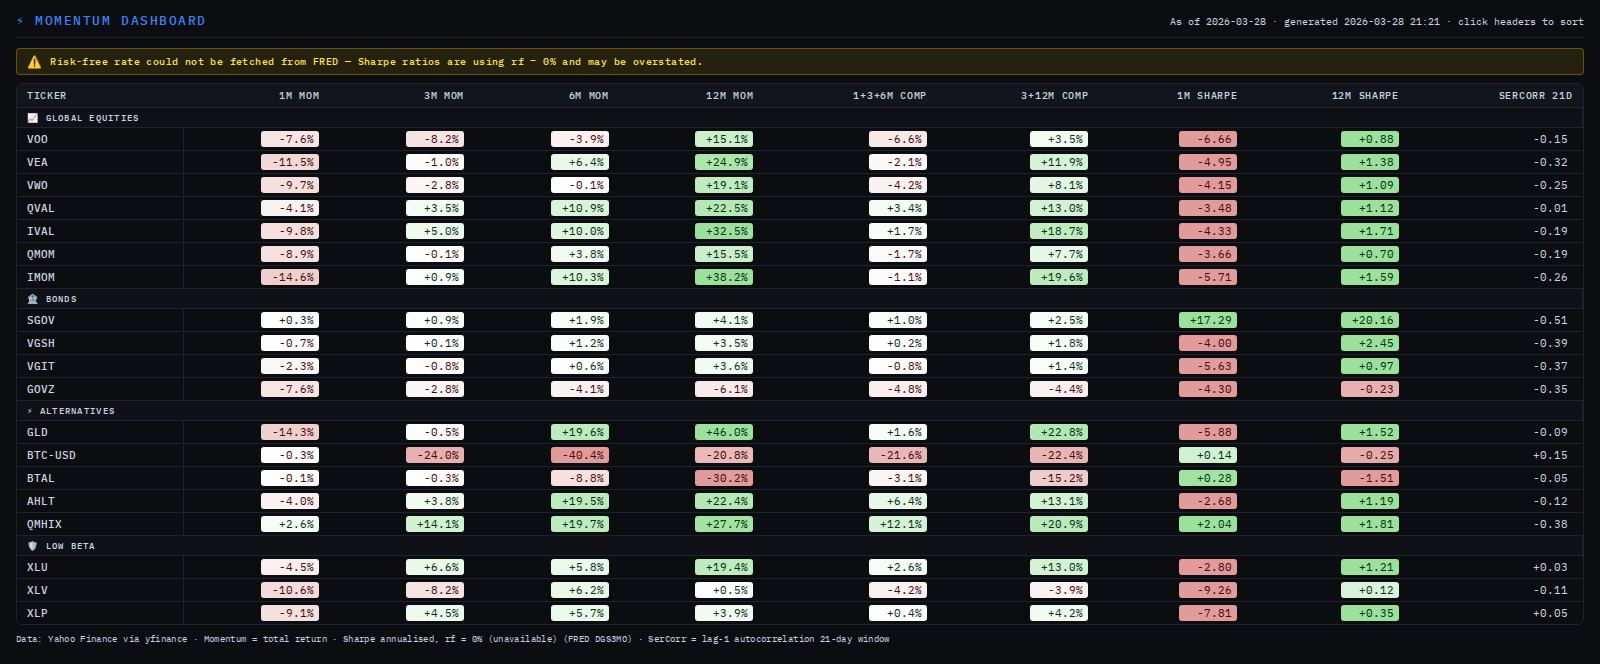
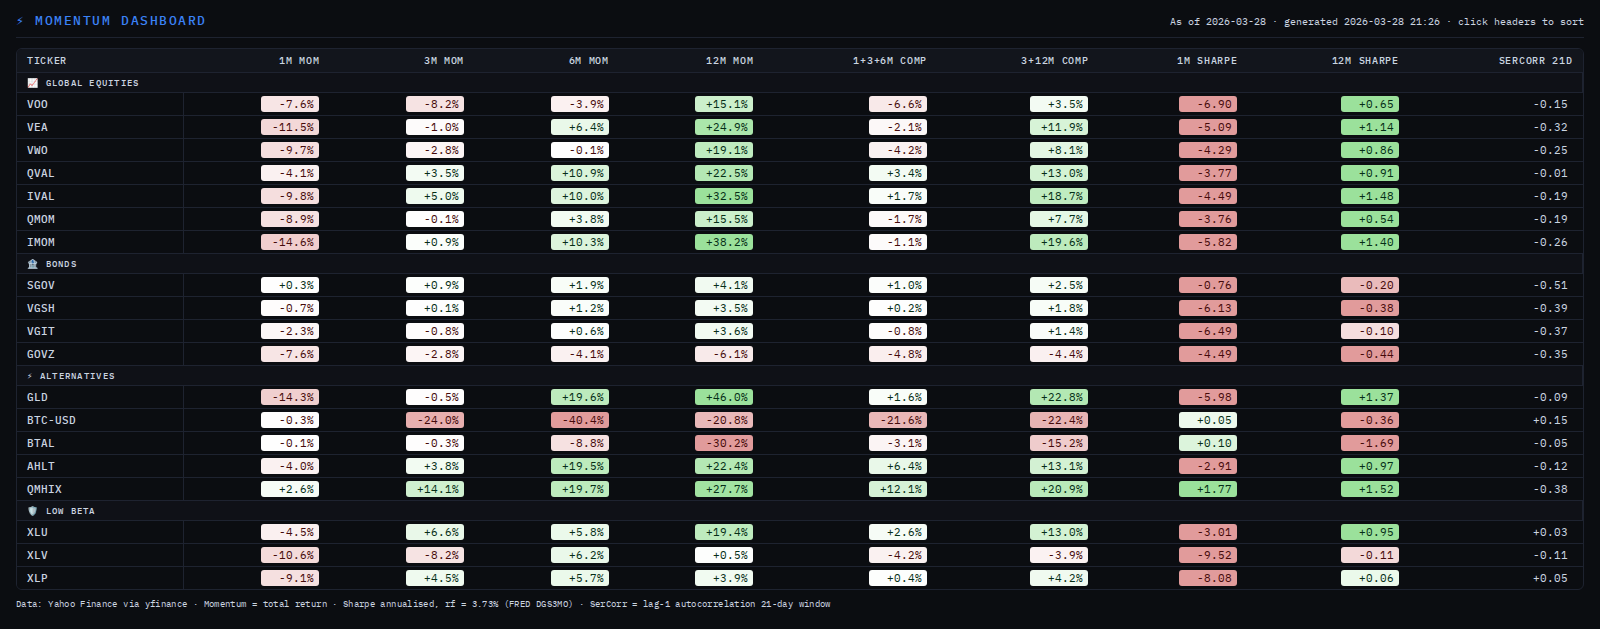
chore: dashboard update 2026-03-28

Changed region(s): [[0.0, 0.0302, 1.0, 0.9666]]

diff --git a/output/dashboard_2026-03-28.html b/output/dashboard_2026-03-28.html
@@ -180,12 +180,10 @@
 
 <div class="topbar">
   <h1>⚡ Momentum Dashboard</h1>
-  <span class="meta">As of 2026-03-28 · generated 2026-03-28 21:21 · click headers to sort</span>
+  <span class="meta">As of 2026-03-28 · generated 2026-03-28 21:26 · click headers to sort</span>
 </div>
 
-<div class="warnings">
-<div class="warn warn-rf"><span class="warn-icon">⚠</span>Risk-free rate could not be fetched from FRED — Sharpe ratios are using rf = 0% and may be overstated.</div>
-</div>
+
 <div class="tbl-wrap">
   <table id="main">
     <thead>
@@ -204,34 +202,34 @@
     </thead>
     <tbody>
       <tr class="cat-row"><td colspan="10">📈 Global Equities</td></tr>
-      <tr class="data-row"><td data-val="VOO">VOO</td><td data-val="-0.076192"><span class="cv cv-neg" style="background:rgb(247,229,229)">-7.6%</span></td><td data-val="-0.081721"><span class="cv cv-neg" style="background:rgb(246,227,227)">-8.2%</span></td><td data-val="-0.039134"><span class="cv cv-neg" style="background:rgb(251,241,241)">-3.9%</span></td><td data-val="0.151315"><span class="cv cv-pos" style="background:rgb(204,239,204)">+15.1%</span></td><td data-val="-0.065682"><span class="cv cv-neg" style="background:rgb(248,233,233)">-6.6%</span></td><td data-val="0.034797"><span class="cv cv-pos" style="background:rgb(243,251,243)">+3.5%</span></td><td data-val="-6.659306"><span class="cv cv-neg" style="background:rgb(225,155,155)">-6.66</span></td><td data-val="0.878861"><span class="cv cv-pos" style="background:rgb(155,225,155)">+0.88</span></td><td data-val="-0.152306"><span class="cv cv-neu">-0.15</span></td></tr>
-      <tr class="data-row"><td data-val="VEA">VEA</td><td data-val="-0.115097"><span class="cv cv-neg" style="background:rgb(243,216,216)">-11.5%</span></td><td data-val="-0.010419"><span class="cv cv-neg" style="background:rgb(253,251,251)">-1.0%</span></td><td data-val="0.063915"><span class="cv cv-pos" style="background:rgb(233,248,233)">+6.4%</span></td><td data-val="0.249318"><span class="cv cv-pos" style="background:rgb(171,230,171)">+24.9%</span></td><td data-val="-0.020534"><span class="cv cv-neg" style="background:rgb(252,248,248)">-2.1%</span></td><td data-val="0.119449"><span class="cv cv-pos" style="background:rgb(215,243,215)">+11.9%</span></td><td data-val="-4.951952"><span class="cv cv-neg" style="background:rgb(225,155,155)">-4.95</span></td><td data-val="1.376945"><span class="cv cv-pos" style="background:rgb(155,225,155)">+1.38</span></td><td data-val="-0.317111"><span class="cv cv-neu">-0.32</span></td></tr>
-      <tr class="data-row"><td data-val="VWO">VWO</td><td data-val="-0.096558"><span class="cv cv-neg" style="background:rgb(245,222,222)">-9.7%</span></td><td data-val="-0.028323"><span class="cv cv-neg" style="background:rgb(252,245,245)">-2.8%</span></td><td data-val="-0.000525"><span class="cv cv-neg" style="background:rgb(254,254,254)">-0.1%</span></td><td data-val="0.190801"><span class="cv cv-pos" style="background:rgb(191,235,191)">+19.1%</span></td><td data-val="-0.041802"><span class="cv cv-neg" style="background:rgb(250,241,241)">-4.2%</span></td><td data-val="0.081239"><span class="cv cv-pos" style="background:rgb(227,246,227)">+8.1%</span></td><td data-val="-4.153578"><span class="cv cv-neg" style="background:rgb(225,155,155)">-4.15</span></td><td data-val="1.086221"><span class="cv cv-pos" style="background:rgb(155,225,155)">+1.09</span></td><td data-val="-0.252652"><span class="cv cv-neu">-0.25</span></td></tr>
-      <tr class="data-row"><td data-val="QVAL">QVAL</td><td data-val="-0.041083"><span class="cv cv-neg" style="background:rgb(250,241,241)">-4.1%</span></td><td data-val="0.034865"><span class="cv cv-pos" style="background:rgb(243,251,243)">+3.5%</span></td><td data-val="0.108829"><span class="cv cv-pos" style="background:rgb(218,244,218)">+10.9%</span></td><td data-val="0.224985"><span class="cv cv-pos" style="background:rgb(180,232,180)">+22.5%</span></td><td data-val="0.034204"><span class="cv cv-pos" style="background:rgb(243,251,243)">+3.4%</span></td><td data-val="0.129925"><span class="cv cv-pos" style="background:rgb(211,242,211)">+13.0%</span></td><td data-val="-3.483952"><span class="cv cv-neg" style="background:rgb(225,155,155)">-3.48</span></td><td data-val="1.115063"><span class="cv cv-pos" style="background:rgb(155,225,155)">+1.12</span></td><td data-val="-0.008855"><span class="cv cv-neu">-0.01</span></td></tr>
-      <tr class="data-row"><td data-val="IVAL">IVAL</td><td data-val="-0.097941"><span class="cv cv-neg" style="background:rgb(245,222,222)">-9.8%</span></td><td data-val="0.049629"><span class="cv cv-pos" style="background:rgb(238,250,238)">+5.0%</span></td><td data-val="0.100195"><span class="cv cv-pos" style="background:rgb(221,244,221)">+10.0%</span></td><td data-val="0.325224"><span class="cv cv-pos" style="background:rgb(155,225,155)">+32.5%</span></td><td data-val="0.017295"><span class="cv cv-pos" style="background:rgb(249,253,249)">+1.7%</span></td><td data-val="0.187427"><span class="cv cv-pos" style="background:rgb(192,236,192)">+18.7%</span></td><td data-val="-4.333787"><span class="cv cv-neg" style="background:rgb(225,155,155)">-4.33</span></td><td data-val="1.714047"><span class="cv cv-pos" style="background:rgb(155,225,155)">+1.71</span></td><td data-val="-0.191477"><span class="cv cv-neu">-0.19</span></td></tr>
-      <tr class="data-row"><td data-val="QMOM">QMOM</td><td data-val="-0.089202"><span class="cv cv-neg" style="background:rgb(246,225,225)">-8.9%</span></td><td data-val="-0.001094"><span class="cv cv-neg" style="background:rgb(254,254,254)">-0.1%</span></td><td data-val="0.038344"><span class="cv cv-pos" style="background:rgb(242,251,242)">+3.8%</span></td><td data-val="0.154543"><span class="cv cv-pos" style="background:rgb(203,239,203)">+15.5%</span></td><td data-val="-0.017317"><span class="cv cv-neg" style="background:rgb(253,249,249)">-1.7%</span></td><td data-val="0.076724"><span class="cv cv-pos" style="background:rgb(229,247,229)">+7.7%</span></td><td data-val="-3.658294"><span class="cv cv-neg" style="background:rgb(225,155,155)">-3.66</span></td><td data-val="0.704518"><span class="cv cv-pos" style="background:rgb(155,225,155)">+0.70</span></td><td data-val="-0.188439"><span class="cv cv-neu">-0.19</span></td></tr>
-      <tr class="data-row"><td data-val="IMOM">IMOM</td><td data-val="-0.145704"><span class="cv cv-neg" style="background:rgb(240,206,206)">-14.6%</span></td><td data-val="0.009057"><span class="cv cv-pos" style="background:rgb(251,254,251)">+0.9%</span></td><td data-val="0.102564"><span class="cv cv-pos" style="background:rgb(220,244,220)">+10.3%</span></td><td data-val="0.382088"><span class="cv cv-pos" style="background:rgb(155,225,155)">+38.2%</span></td><td data-val="-0.011361"><span class="cv cv-neg" style="background:rgb(253,251,251)">-1.1%</span></td><td data-val="0.195572"><span class="cv cv-pos" style="background:rgb(189,235,189)">+19.6%</span></td><td data-val="-5.714884"><span class="cv cv-neg" style="background:rgb(225,155,155)">-5.71</span></td><td data-val="1.586657"><span class="cv cv-pos" style="background:rgb(155,225,155)">+1.59</span></td><td data-val="-0.256860"><span class="cv cv-neu">-0.26</span></td></tr>
+      <tr class="data-row"><td data-val="VOO">VOO</td><td data-val="-0.076192"><span class="cv cv-neg" style="background:rgb(247,229,229)">-7.6%</span></td><td data-val="-0.081721"><span class="cv cv-neg" style="background:rgb(246,227,227)">-8.2%</span></td><td data-val="-0.039134"><span class="cv cv-neg" style="background:rgb(251,241,241)">-3.9%</span></td><td data-val="0.151315"><span class="cv cv-pos" style="background:rgb(204,239,204)">+15.1%</span></td><td data-val="-0.065682"><span class="cv cv-neg" style="background:rgb(248,233,233)">-6.6%</span></td><td data-val="0.034797"><span class="cv cv-pos" style="background:rgb(243,251,243)">+3.5%</span></td><td data-val="-6.897014"><span class="cv cv-neg" style="background:rgb(225,155,155)">-6.90</span></td><td data-val="0.653537"><span class="cv cv-pos" style="background:rgb(155,225,155)">+0.65</span></td><td data-val="-0.152306"><span class="cv cv-neu">-0.15</span></td></tr>
+      <tr class="data-row"><td data-val="VEA">VEA</td><td data-val="-0.115097"><span class="cv cv-neg" style="background:rgb(243,216,216)">-11.5%</span></td><td data-val="-0.010419"><span class="cv cv-neg" style="background:rgb(253,251,251)">-1.0%</span></td><td data-val="0.063915"><span class="cv cv-pos" style="background:rgb(233,248,233)">+6.4%</span></td><td data-val="0.249318"><span class="cv cv-pos" style="background:rgb(171,230,171)">+24.9%</span></td><td data-val="-0.020534"><span class="cv cv-neg" style="background:rgb(252,248,248)">-2.1%</span></td><td data-val="0.119449"><span class="cv cv-pos" style="background:rgb(215,243,215)">+11.9%</span></td><td data-val="-5.088591"><span class="cv cv-neg" style="background:rgb(225,155,155)">-5.09</span></td><td data-val="1.144011"><span class="cv cv-pos" style="background:rgb(155,225,155)">+1.14</span></td><td data-val="-0.317111"><span class="cv cv-neu">-0.32</span></td></tr>
+      <tr class="data-row"><td data-val="VWO">VWO</td><td data-val="-0.096558"><span class="cv cv-neg" style="background:rgb(245,222,222)">-9.7%</span></td><td data-val="-0.028323"><span class="cv cv-neg" style="background:rgb(252,245,245)">-2.8%</span></td><td data-val="-0.000525"><span class="cv cv-neg" style="background:rgb(254,254,254)">-0.1%</span></td><td data-val="0.190801"><span class="cv cv-pos" style="background:rgb(191,235,191)">+19.1%</span></td><td data-val="-0.041802"><span class="cv cv-neg" style="background:rgb(250,241,241)">-4.2%</span></td><td data-val="0.081239"><span class="cv cv-pos" style="background:rgb(227,246,227)">+8.1%</span></td><td data-val="-4.292520"><span class="cv cv-neg" style="background:rgb(225,155,155)">-4.29</span></td><td data-val="0.856488"><span class="cv cv-pos" style="background:rgb(155,225,155)">+0.86</span></td><td data-val="-0.252652"><span class="cv cv-neu">-0.25</span></td></tr>
+      <tr class="data-row"><td data-val="QVAL">QVAL</td><td data-val="-0.041083"><span class="cv cv-neg" style="background:rgb(250,241,241)">-4.1%</span></td><td data-val="0.034865"><span class="cv cv-pos" style="background:rgb(243,251,243)">+3.5%</span></td><td data-val="0.108829"><span class="cv cv-pos" style="background:rgb(218,244,218)">+10.9%</span></td><td data-val="0.224985"><span class="cv cv-pos" style="background:rgb(180,232,180)">+22.5%</span></td><td data-val="0.034204"><span class="cv cv-pos" style="background:rgb(243,251,243)">+3.4%</span></td><td data-val="0.129925"><span class="cv cv-pos" style="background:rgb(211,242,211)">+13.0%</span></td><td data-val="-3.765019"><span class="cv cv-neg" style="background:rgb(225,155,155)">-3.77</span></td><td data-val="0.914018"><span class="cv cv-pos" style="background:rgb(155,225,155)">+0.91</span></td><td data-val="-0.008855"><span class="cv cv-neu">-0.01</span></td></tr>
+      <tr class="data-row"><td data-val="IVAL">IVAL</td><td data-val="-0.097941"><span class="cv cv-neg" style="background:rgb(245,222,222)">-9.8%</span></td><td data-val="0.049629"><span class="cv cv-pos" style="background:rgb(238,250,238)">+5.0%</span></td><td data-val="0.100195"><span class="cv cv-pos" style="background:rgb(221,244,221)">+10.0%</span></td><td data-val="0.325224"><span class="cv cv-pos" style="background:rgb(155,225,155)">+32.5%</span></td><td data-val="0.017295"><span class="cv cv-pos" style="background:rgb(249,253,249)">+1.7%</span></td><td data-val="0.187427"><span class="cv cv-pos" style="background:rgb(192,236,192)">+18.7%</span></td><td data-val="-4.488207"><span class="cv cv-neg" style="background:rgb(225,155,155)">-4.49</span></td><td data-val="1.481880"><span class="cv cv-pos" style="background:rgb(155,225,155)">+1.48</span></td><td data-val="-0.191477"><span class="cv cv-neu">-0.19</span></td></tr>
+      <tr class="data-row"><td data-val="QMOM">QMOM</td><td data-val="-0.089202"><span class="cv cv-neg" style="background:rgb(246,225,225)">-8.9%</span></td><td data-val="-0.001094"><span class="cv cv-neg" style="background:rgb(254,254,254)">-0.1%</span></td><td data-val="0.038344"><span class="cv cv-pos" style="background:rgb(242,251,242)">+3.8%</span></td><td data-val="0.154543"><span class="cv cv-pos" style="background:rgb(203,239,203)">+15.5%</span></td><td data-val="-0.017317"><span class="cv cv-neg" style="background:rgb(253,249,249)">-1.7%</span></td><td data-val="0.076724"><span class="cv cv-pos" style="background:rgb(229,247,229)">+7.7%</span></td><td data-val="-3.763350"><span class="cv cv-neg" style="background:rgb(225,155,155)">-3.76</span></td><td data-val="0.542394"><span class="cv cv-pos" style="background:rgb(155,225,155)">+0.54</span></td><td data-val="-0.188439"><span class="cv cv-neu">-0.19</span></td></tr>
+      <tr class="data-row"><td data-val="IMOM">IMOM</td><td data-val="-0.145704"><span class="cv cv-neg" style="background:rgb(240,206,206)">-14.6%</span></td><td data-val="0.009057"><span class="cv cv-pos" style="background:rgb(251,254,251)">+0.9%</span></td><td data-val="0.102564"><span class="cv cv-pos" style="background:rgb(220,244,220)">+10.3%</span></td><td data-val="0.382088"><span class="cv cv-pos" style="background:rgb(155,225,155)">+38.2%</span></td><td data-val="-0.011361"><span class="cv cv-neg" style="background:rgb(253,251,251)">-1.1%</span></td><td data-val="0.195572"><span class="cv cv-pos" style="background:rgb(189,235,189)">+19.6%</span></td><td data-val="-5.824084"><span class="cv cv-neg" style="background:rgb(225,155,155)">-5.82</span></td><td data-val="1.403428"><span class="cv cv-pos" style="background:rgb(155,225,155)">+1.40</span></td><td data-val="-0.256860"><span class="cv cv-neu">-0.26</span></td></tr>
       <tr class="cat-row"><td colspan="10">🏦 Bonds</td></tr>
-      <tr class="data-row"><td data-val="SGOV">SGOV</td><td data-val="0.002810"><span class="cv cv-pos" style="background:rgb(254,254,254)">+0.3%</span></td><td data-val="0.008905"><span class="cv cv-pos" style="background:rgb(252,254,252)">+0.9%</span></td><td data-val="0.018802"><span class="cv cv-pos" style="background:rgb(248,253,248)">+1.9%</span></td><td data-val="0.040598"><span class="cv cv-pos" style="background:rgb(241,250,241)">+4.1%</span></td><td data-val="0.010172"><span class="cv cv-pos" style="background:rgb(251,253,251)">+1.0%</span></td><td data-val="0.024751"><span class="cv cv-pos" style="background:rgb(246,252,246)">+2.5%</span></td><td data-val="17.293920"><span class="cv cv-pos" style="background:rgb(155,225,155)">+17.29</span></td><td data-val="20.161369"><span class="cv cv-pos" style="background:rgb(155,225,155)">+20.16</span></td><td data-val="-0.507923"><span class="cv cv-neu">-0.51</span></td></tr>
-      <tr class="data-row"><td data-val="VGSH">VGSH</td><td data-val="-0.007139"><span class="cv cv-neg" style="background:rgb(254,252,252)">-0.7%</span></td><td data-val="0.000740"><span class="cv cv-pos" style="background:rgb(254,254,254)">+0.1%</span></td><td data-val="0.012455"><span class="cv cv-pos" style="background:rgb(250,253,250)">+1.2%</span></td><td data-val="0.035356"><span class="cv cv-pos" style="background:rgb(243,251,243)">+3.5%</span></td><td data-val="0.002019"><span class="cv cv-pos" style="background:rgb(254,254,254)">+0.2%</span></td><td data-val="0.018048"><span class="cv cv-pos" style="background:rgb(248,253,248)">+1.8%</span></td><td data-val="-4.002035"><span class="cv cv-neg" style="background:rgb(225,155,155)">-4.00</span></td><td data-val="2.449399"><span class="cv cv-pos" style="background:rgb(155,225,155)">+2.45</span></td><td data-val="-0.394587"><span class="cv cv-neu">-0.39</span></td></tr>
-      <tr class="data-row"><td data-val="VGIT">VGIT</td><td data-val="-0.022872"><span class="cv cv-neg" style="background:rgb(252,247,247)">-2.3%</span></td><td data-val="-0.007820"><span class="cv cv-neg" style="background:rgb(254,252,252)">-0.8%</span></td><td data-val="0.005729"><span class="cv cv-pos" style="background:rgb(253,254,253)">+0.6%</span></td><td data-val="0.036424"><span class="cv cv-pos" style="background:rgb(242,251,242)">+3.6%</span></td><td data-val="-0.008321"><span class="cv cv-neg" style="background:rgb(254,252,252)">-0.8%</span></td><td data-val="0.014302"><span class="cv cv-pos" style="background:rgb(250,253,250)">+1.4%</span></td><td data-val="-5.626946"><span class="cv cv-neg" style="background:rgb(225,155,155)">-5.63</span></td><td data-val="0.968860"><span class="cv cv-pos" style="background:rgb(155,225,155)">+0.97</span></td><td data-val="-0.370183"><span class="cv cv-neu">-0.37</span></td></tr>
-      <tr class="data-row"><td data-val="GOVZ">GOVZ</td><td data-val="-0.075609"><span class="cv cv-neg" style="background:rgb(247,229,229)">-7.6%</span></td><td data-val="-0.027975"><span class="cv cv-neg" style="background:rgb(252,245,245)">-2.8%</span></td><td data-val="-0.040672"><span class="cv cv-neg" style="background:rgb(250,241,241)">-4.1%</span></td><td data-val="-0.060810"><span class="cv cv-neg" style="background:rgb(248,234,234)">-6.1%</span></td><td data-val="-0.048085"><span class="cv cv-neg" style="background:rgb(250,238,238)">-4.8%</span></td><td data-val="-0.044392"><span class="cv cv-neg" style="background:rgb(250,240,240)">-4.4%</span></td><td data-val="-4.302085"><span class="cv cv-neg" style="background:rgb(225,155,155)">-4.30</span></td><td data-val="-0.231015"><span class="cv cv-neg" style="background:rgb(231,177,177)">-0.23</span></td><td data-val="-0.345143"><span class="cv cv-neu">-0.35</span></td></tr>
+      <tr class="data-row"><td data-val="SGOV">SGOV</td><td data-val="0.002810"><span class="cv cv-pos" style="background:rgb(254,254,254)">+0.3%</span></td><td data-val="0.008905"><span class="cv cv-pos" style="background:rgb(252,254,252)">+0.9%</span></td><td data-val="0.018802"><span class="cv cv-pos" style="background:rgb(248,253,248)">+1.9%</span></td><td data-val="0.040598"><span class="cv cv-pos" style="background:rgb(241,250,241)">+4.1%</span></td><td data-val="0.010172"><span class="cv cv-pos" style="background:rgb(251,253,251)">+1.0%</span></td><td data-val="0.024751"><span class="cv cv-pos" style="background:rgb(246,252,246)">+2.5%</span></td><td data-val="-0.763498"><span class="cv cv-neg" style="background:rgb(225,155,155)">-0.76</span></td><td data-val="-0.202427"><span class="cv cv-neg" style="background:rgb(234,187,187)">-0.20</span></td><td data-val="-0.507923"><span class="cv cv-neu">-0.51</span></td></tr>
+      <tr class="data-row"><td data-val="VGSH">VGSH</td><td data-val="-0.007139"><span class="cv cv-neg" style="background:rgb(254,252,252)">-0.7%</span></td><td data-val="0.000740"><span class="cv cv-pos" style="background:rgb(254,254,254)">+0.1%</span></td><td data-val="0.012455"><span class="cv cv-pos" style="background:rgb(250,253,250)">+1.2%</span></td><td data-val="0.035356"><span class="cv cv-pos" style="background:rgb(243,251,243)">+3.5%</span></td><td data-val="0.002019"><span class="cv cv-pos" style="background:rgb(254,254,254)">+0.2%</span></td><td data-val="0.018048"><span class="cv cv-pos" style="background:rgb(248,253,248)">+1.8%</span></td><td data-val="-6.127585"><span class="cv cv-neg" style="background:rgb(225,155,155)">-6.13</span></td><td data-val="-0.376076"><span class="cv cv-neg" style="background:rgb(225,155,155)">-0.38</span></td><td data-val="-0.394587"><span class="cv cv-neu">-0.39</span></td></tr>
+      <tr class="data-row"><td data-val="VGIT">VGIT</td><td data-val="-0.022872"><span class="cv cv-neg" style="background:rgb(252,247,247)">-2.3%</span></td><td data-val="-0.007820"><span class="cv cv-neg" style="background:rgb(254,252,252)">-0.8%</span></td><td data-val="0.005729"><span class="cv cv-pos" style="background:rgb(253,254,253)">+0.6%</span></td><td data-val="0.036424"><span class="cv cv-pos" style="background:rgb(242,251,242)">+3.6%</span></td><td data-val="-0.008321"><span class="cv cv-neg" style="background:rgb(254,252,252)">-0.8%</span></td><td data-val="0.014302"><span class="cv cv-pos" style="background:rgb(250,253,250)">+1.4%</span></td><td data-val="-6.487413"><span class="cv cv-neg" style="background:rgb(225,155,155)">-6.49</span></td><td data-val="-0.098494"><span class="cv cv-neg" style="background:rgb(245,222,222)">-0.10</span></td><td data-val="-0.370183"><span class="cv cv-neu">-0.37</span></td></tr>
+      <tr class="data-row"><td data-val="GOVZ">GOVZ</td><td data-val="-0.075609"><span class="cv cv-neg" style="background:rgb(247,229,229)">-7.6%</span></td><td data-val="-0.027975"><span class="cv cv-neg" style="background:rgb(252,245,245)">-2.8%</span></td><td data-val="-0.040672"><span class="cv cv-neg" style="background:rgb(250,241,241)">-4.1%</span></td><td data-val="-0.060810"><span class="cv cv-neg" style="background:rgb(248,234,234)">-6.1%</span></td><td data-val="-0.048085"><span class="cv cv-neg" style="background:rgb(250,238,238)">-4.8%</span></td><td data-val="-0.044392"><span class="cv cv-neg" style="background:rgb(250,240,240)">-4.4%</span></td><td data-val="-4.494124"><span class="cv cv-neg" style="background:rgb(225,155,155)">-4.49</span></td><td data-val="-0.440938"><span class="cv cv-neg" style="background:rgb(225,155,155)">-0.44</span></td><td data-val="-0.345143"><span class="cv cv-neu">-0.35</span></td></tr>
       <tr class="cat-row"><td colspan="10">⚡ Alternatives</td></tr>
-      <tr class="data-row"><td data-val="GLD">GLD</td><td data-val="-0.142739"><span class="cv cv-neg" style="background:rgb(240,207,207)">-14.3%</span></td><td data-val="-0.004895"><span class="cv cv-neg" style="background:rgb(254,253,253)">-0.5%</span></td><td data-val="0.195997"><span class="cv cv-pos" style="background:rgb(189,235,189)">+19.6%</span></td><td data-val="0.459903"><span class="cv cv-pos" style="background:rgb(155,225,155)">+46.0%</span></td><td data-val="0.016121"><span class="cv cv-pos" style="background:rgb(249,253,249)">+1.6%</span></td><td data-val="0.227504"><span class="cv cv-pos" style="background:rgb(179,232,179)">+22.8%</span></td><td data-val="-5.876040"><span class="cv cv-neg" style="background:rgb(225,155,155)">-5.88</span></td><td data-val="1.518856"><span class="cv cv-pos" style="background:rgb(155,225,155)">+1.52</span></td><td data-val="-0.088785"><span class="cv cv-neu">-0.09</span></td></tr>
-      <tr class="data-row"><td data-val="BTC-USD">BTC-USD</td><td data-val="-0.003224"><span class="cv cv-neg" style="background:rgb(254,253,253)">-0.3%</span></td><td data-val="-0.239719"><span class="cv cv-neg" style="background:rgb(231,175,175)">-24.0%</span></td><td data-val="-0.404403"><span class="cv cv-neg" style="background:rgb(225,155,155)">-40.4%</span></td><td data-val="-0.208330"><span class="cv cv-neg" style="background:rgb(234,185,185)">-20.8%</span></td><td data-val="-0.215782"><span class="cv cv-neg" style="background:rgb(233,183,183)">-21.6%</span></td><td data-val="-0.224025"><span class="cv cv-neg" style="background:rgb(232,180,180)">-22.4%</span></td><td data-val="0.139814"><span class="cv cv-pos" style="background:rgb(208,241,208)">+0.14</span></td><td data-val="-0.253228"><span class="cv cv-neg" style="background:rgb(229,170,170)">-0.25</span></td><td data-val="0.149233"><span class="cv cv-neu">+0.15</span></td></tr>
-      <tr class="data-row"><td data-val="BTAL">BTAL</td><td data-val="-0.001420"><span class="cv cv-neg" style="background:rgb(254,254,254)">-0.1%</span></td><td data-val="-0.003187"><span class="cv cv-neg" style="background:rgb(254,253,253)">-0.3%</span></td><td data-val="-0.088303"><span class="cv cv-neg" style="background:rgb(246,225,225)">-8.8%</span></td><td data-val="-0.301651"><span class="cv cv-neg" style="background:rgb(225,155,155)">-30.2%</span></td><td data-val="-0.030970"><span class="cv cv-neg" style="background:rgb(251,244,244)">-3.1%</span></td><td data-val="-0.152419"><span class="cv cv-neg" style="background:rgb(239,204,204)">-15.2%</span></td><td data-val="0.276753"><span class="cv cv-pos" style="background:rgb(162,227,162)">+0.28</span></td><td data-val="-1.507863"><span class="cv cv-neg" style="background:rgb(225,155,155)">-1.51</span></td><td data-val="-0.048277"><span class="cv cv-neu">-0.05</span></td></tr>
-      <tr class="data-row"><td data-val="AHLT">AHLT</td><td data-val="-0.040394"><span class="cv cv-neg" style="background:rgb(250,241,241)">-4.0%</span></td><td data-val="0.038193"><span class="cv cv-pos" style="background:rgb(242,251,242)">+3.8%</span></td><td data-val="0.195378"><span class="cv cv-pos" style="background:rgb(189,235,189)">+19.5%</span></td><td data-val="0.224028"><span class="cv cv-pos" style="background:rgb(180,232,180)">+22.4%</span></td><td data-val="0.064392"><span class="cv cv-pos" style="background:rgb(233,248,233)">+6.4%</span></td><td data-val="0.131111"><span class="cv cv-pos" style="background:rgb(211,241,211)">+13.1%</span></td><td data-val="-2.679230"><span class="cv cv-neg" style="background:rgb(225,155,155)">-2.68</span></td><td data-val="1.190682"><span class="cv cv-pos" style="background:rgb(155,225,155)">+1.19</span></td><td data-val="-0.118793"><span class="cv cv-neu">-0.12</span></td></tr>
-      <tr class="data-row"><td data-val="QMHIX">QMHIX</td><td data-val="0.025524"><span class="cv cv-pos" style="background:rgb(246,252,246)">+2.6%</span></td><td data-val="0.140858"><span class="cv cv-pos" style="background:rgb(208,240,208)">+14.1%</span></td><td data-val="0.197386"><span class="cv cv-pos" style="background:rgb(189,235,189)">+19.7%</span></td><td data-val="0.277300"><span class="cv cv-pos" style="background:rgb(162,227,162)">+27.7%</span></td><td data-val="0.121256"><span class="cv cv-pos" style="background:rgb(214,242,214)">+12.1%</span></td><td data-val="0.209079"><span class="cv cv-pos" style="background:rgb(185,234,185)">+20.9%</span></td><td data-val="2.042047"><span class="cv cv-pos" style="background:rgb(155,225,155)">+2.04</span></td><td data-val="1.808975"><span class="cv cv-pos" style="background:rgb(155,225,155)">+1.81</span></td><td data-val="-0.383435"><span class="cv cv-neu">-0.38</span></td></tr>
+      <tr class="data-row"><td data-val="GLD">GLD</td><td data-val="-0.142739"><span class="cv cv-neg" style="background:rgb(240,207,207)">-14.3%</span></td><td data-val="-0.004895"><span class="cv cv-neg" style="background:rgb(254,253,253)">-0.5%</span></td><td data-val="0.195997"><span class="cv cv-pos" style="background:rgb(189,235,189)">+19.6%</span></td><td data-val="0.459903"><span class="cv cv-pos" style="background:rgb(155,225,155)">+46.0%</span></td><td data-val="0.016121"><span class="cv cv-pos" style="background:rgb(249,253,249)">+1.6%</span></td><td data-val="0.227504"><span class="cv cv-pos" style="background:rgb(179,232,179)">+22.8%</span></td><td data-val="-5.978197"><span class="cv cv-neg" style="background:rgb(225,155,155)">-5.98</span></td><td data-val="1.372410"><span class="cv cv-pos" style="background:rgb(155,225,155)">+1.37</span></td><td data-val="-0.088785"><span class="cv cv-neu">-0.09</span></td></tr>
+      <tr class="data-row"><td data-val="BTC-USD">BTC-USD</td><td data-val="-0.003224"><span class="cv cv-neg" style="background:rgb(254,253,253)">-0.3%</span></td><td data-val="-0.239719"><span class="cv cv-neg" style="background:rgb(231,175,175)">-24.0%</span></td><td data-val="-0.404403"><span class="cv cv-neg" style="background:rgb(225,155,155)">-40.4%</span></td><td data-val="-0.208330"><span class="cv cv-neg" style="background:rgb(234,185,185)">-20.8%</span></td><td data-val="-0.215782"><span class="cv cv-neg" style="background:rgb(233,183,183)">-21.6%</span></td><td data-val="-0.224025"><span class="cv cv-neg" style="background:rgb(232,180,180)">-22.4%</span></td><td data-val="0.053966"><span class="cv cv-pos" style="background:rgb(237,249,237)">+0.05</span></td><td data-val="-0.363162"><span class="cv cv-neg" style="background:rgb(225,155,155)">-0.36</span></td><td data-val="0.149233"><span class="cv cv-neu">+0.15</span></td></tr>
+      <tr class="data-row"><td data-val="BTAL">BTAL</td><td data-val="-0.001420"><span class="cv cv-neg" style="background:rgb(254,254,254)">-0.1%</span></td><td data-val="-0.003187"><span class="cv cv-neg" style="background:rgb(254,253,253)">-0.3%</span></td><td data-val="-0.088303"><span class="cv cv-neg" style="background:rgb(246,225,225)">-8.8%</span></td><td data-val="-0.301651"><span class="cv cv-neg" style="background:rgb(225,155,155)">-30.2%</span></td><td data-val="-0.030970"><span class="cv cv-neg" style="background:rgb(251,244,244)">-3.1%</span></td><td data-val="-0.152419"><span class="cv cv-neg" style="background:rgb(239,204,204)">-15.2%</span></td><td data-val="0.104628"><span class="cv cv-pos" style="background:rgb(220,244,220)">+0.10</span></td><td data-val="-1.689261"><span class="cv cv-neg" style="background:rgb(225,155,155)">-1.69</span></td><td data-val="-0.048277"><span class="cv cv-neu">-0.05</span></td></tr>
+      <tr class="data-row"><td data-val="AHLT">AHLT</td><td data-val="-0.040394"><span class="cv cv-neg" style="background:rgb(250,241,241)">-4.0%</span></td><td data-val="0.038193"><span class="cv cv-pos" style="background:rgb(242,251,242)">+3.8%</span></td><td data-val="0.195378"><span class="cv cv-pos" style="background:rgb(189,235,189)">+19.5%</span></td><td data-val="0.224028"><span class="cv cv-pos" style="background:rgb(180,232,180)">+22.4%</span></td><td data-val="0.064392"><span class="cv cv-pos" style="background:rgb(233,248,233)">+6.4%</span></td><td data-val="0.131111"><span class="cv cv-pos" style="background:rgb(211,241,211)">+13.1%</span></td><td data-val="-2.908647"><span class="cv cv-neg" style="background:rgb(225,155,155)">-2.91</span></td><td data-val="0.972452"><span class="cv cv-pos" style="background:rgb(155,225,155)">+0.97</span></td><td data-val="-0.118793"><span class="cv cv-neu">-0.12</span></td></tr>
+      <tr class="data-row"><td data-val="QMHIX">QMHIX</td><td data-val="0.025524"><span class="cv cv-pos" style="background:rgb(246,252,246)">+2.6%</span></td><td data-val="0.140858"><span class="cv cv-pos" style="background:rgb(208,240,208)">+14.1%</span></td><td data-val="0.197386"><span class="cv cv-pos" style="background:rgb(189,235,189)">+19.7%</span></td><td data-val="0.277300"><span class="cv cv-pos" style="background:rgb(162,227,162)">+27.7%</span></td><td data-val="0.121256"><span class="cv cv-pos" style="background:rgb(214,242,214)">+12.1%</span></td><td data-val="0.209079"><span class="cv cv-pos" style="background:rgb(185,234,185)">+20.9%</span></td><td data-val="1.773808"><span class="cv cv-pos" style="background:rgb(155,225,155)">+1.77</span></td><td data-val="1.523693"><span class="cv cv-pos" style="background:rgb(155,225,155)">+1.52</span></td><td data-val="-0.383435"><span class="cv cv-neu">-0.38</span></td></tr>
       <tr class="cat-row"><td colspan="10">🛡 Low Beta</td></tr>
-      <tr class="data-row"><td data-val="XLU">XLU</td><td data-val="-0.044836"><span class="cv cv-neg" style="background:rgb(250,240,240)">-4.5%</span></td><td data-val="0.065685"><span class="cv cv-pos" style="background:rgb(233,248,233)">+6.6%</span></td><td data-val="0.058209"><span class="cv cv-pos" style="background:rgb(235,249,235)">+5.8%</span></td><td data-val="0.194198"><span class="cv cv-pos" style="background:rgb(190,235,190)">+19.4%</span></td><td data-val="0.026353"><span class="cv cv-pos" style="background:rgb(246,252,246)">+2.6%</span></td><td data-val="0.129941"><span class="cv cv-pos" style="background:rgb(211,242,211)">+13.0%</span></td><td data-val="-2.798437"><span class="cv cv-neg" style="background:rgb(225,155,155)">-2.80</span></td><td data-val="1.208752"><span class="cv cv-pos" style="background:rgb(155,225,155)">+1.21</span></td><td data-val="0.027813"><span class="cv cv-neu">+0.03</span></td></tr>
-      <tr class="data-row"><td data-val="XLV">XLV</td><td data-val="-0.105743"><span class="cv cv-neg" style="background:rgb(244,219,219)">-10.6%</span></td><td data-val="-0.081961"><span class="cv cv-neg" style="background:rgb(246,227,227)">-8.2%</span></td><td data-val="0.061772"><span class="cv cv-pos" style="background:rgb(234,248,234)">+6.2%</span></td><td data-val="0.004829"><span class="cv cv-pos" style="background:rgb(253,254,253)">+0.5%</span></td><td data-val="-0.041977"><span class="cv cv-neg" style="background:rgb(250,241,241)">-4.2%</span></td><td data-val="-0.038566"><span class="cv cv-neg" style="background:rgb(251,242,242)">-3.9%</span></td><td data-val="-9.261494"><span class="cv cv-neg" style="background:rgb(225,155,155)">-9.26</span></td><td data-val="0.115844"><span class="cv cv-pos" style="background:rgb(216,243,216)">+0.12</span></td><td data-val="-0.113953"><span class="cv cv-neu">-0.11</span></td></tr>
-      <tr class="data-row"><td data-val="XLP">XLP</td><td data-val="-0.091434"><span class="cv cv-neg" style="background:rgb(245,224,224)">-9.1%</span></td><td data-val="0.045379"><span class="cv cv-pos" style="background:rgb(239,250,239)">+4.5%</span></td><td data-val="0.057415"><span class="cv cv-pos" style="background:rgb(235,249,235)">+5.7%</span></td><td data-val="0.039313"><span class="cv cv-pos" style="background:rgb(241,251,241)">+3.9%</span></td><td data-val="0.003787"><span class="cv cv-pos" style="background:rgb(253,254,253)">+0.4%</span></td><td data-val="0.042346"><span class="cv cv-pos" style="background:rgb(240,250,240)">+4.2%</span></td><td data-val="-7.806299"><span class="cv cv-neg" style="background:rgb(225,155,155)">-7.81</span></td><td data-val="0.348169"><span class="cv cv-pos" style="background:rgb(155,225,155)">+0.35</span></td><td data-val="0.049617"><span class="cv cv-neu">+0.05</span></td></tr>
+      <tr class="data-row"><td data-val="XLU">XLU</td><td data-val="-0.044836"><span class="cv cv-neg" style="background:rgb(250,240,240)">-4.5%</span></td><td data-val="0.065685"><span class="cv cv-pos" style="background:rgb(233,248,233)">+6.6%</span></td><td data-val="0.058209"><span class="cv cv-pos" style="background:rgb(235,249,235)">+5.8%</span></td><td data-val="0.194198"><span class="cv cv-pos" style="background:rgb(190,235,190)">+19.4%</span></td><td data-val="0.026353"><span class="cv cv-pos" style="background:rgb(246,252,246)">+2.6%</span></td><td data-val="0.129941"><span class="cv cv-pos" style="background:rgb(211,242,211)">+13.0%</span></td><td data-val="-3.009829"><span class="cv cv-neg" style="background:rgb(225,155,155)">-3.01</span></td><td data-val="0.953009"><span class="cv cv-pos" style="background:rgb(155,225,155)">+0.95</span></td><td data-val="0.027813"><span class="cv cv-neu">+0.03</span></td></tr>
+      <tr class="data-row"><td data-val="XLV">XLV</td><td data-val="-0.105743"><span class="cv cv-neg" style="background:rgb(244,219,219)">-10.6%</span></td><td data-val="-0.081961"><span class="cv cv-neg" style="background:rgb(246,227,227)">-8.2%</span></td><td data-val="0.061772"><span class="cv cv-pos" style="background:rgb(234,248,234)">+6.2%</span></td><td data-val="0.004829"><span class="cv cv-pos" style="background:rgb(253,254,253)">+0.5%</span></td><td data-val="-0.041977"><span class="cv cv-neg" style="background:rgb(250,241,241)">-4.2%</span></td><td data-val="-0.038566"><span class="cv cv-neg" style="background:rgb(251,242,242)">-3.9%</span></td><td data-val="-9.520585"><span class="cv cv-neg" style="background:rgb(225,155,155)">-9.52</span></td><td data-val="-0.112998"><span class="cv cv-neg" style="background:rgb(243,217,217)">-0.11</span></td><td data-val="-0.113953"><span class="cv cv-neu">-0.11</span></td></tr>
+      <tr class="data-row"><td data-val="XLP">XLP</td><td data-val="-0.091434"><span class="cv cv-neg" style="background:rgb(245,224,224)">-9.1%</span></td><td data-val="0.045379"><span class="cv cv-pos" style="background:rgb(239,250,239)">+4.5%</span></td><td data-val="0.057415"><span class="cv cv-pos" style="background:rgb(235,249,235)">+5.7%</span></td><td data-val="0.039313"><span class="cv cv-pos" style="background:rgb(241,251,241)">+3.9%</span></td><td data-val="0.003787"><span class="cv cv-pos" style="background:rgb(253,254,253)">+0.4%</span></td><td data-val="0.042346"><span class="cv cv-pos" style="background:rgb(240,250,240)">+4.2%</span></td><td data-val="-8.078348"><span class="cv cv-neg" style="background:rgb(225,155,155)">-8.08</span></td><td data-val="0.057675"><span class="cv cv-pos" style="background:rgb(235,249,235)">+0.06</span></td><td data-val="0.049617"><span class="cv cv-neu">+0.05</span></td></tr>
     </tbody>
   </table>
 </div>
 
 <div class="foot">
-  Data: Yahoo Finance via yfinance · Momentum = total return · Sharpe annualised, rf = 0% (unavailable) (FRED DGS3MO) · SerCorr = lag-1 autocorrelation 21-day window
+  Data: Yahoo Finance via yfinance · Momentum = total return · Sharpe annualised, rf = 3.73% (FRED DGS3MO) · SerCorr = lag-1 autocorrelation 21-day window
 </div>
 
 <script>
